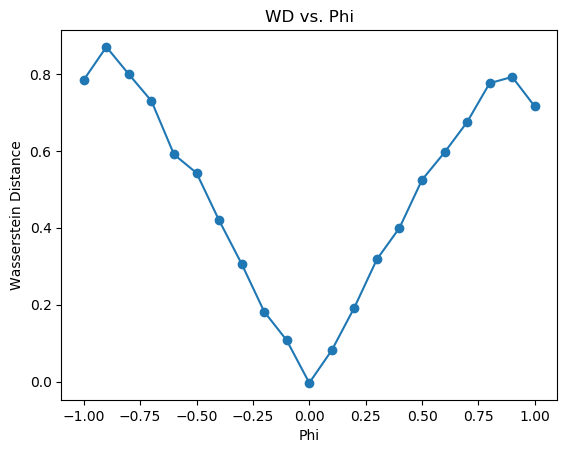
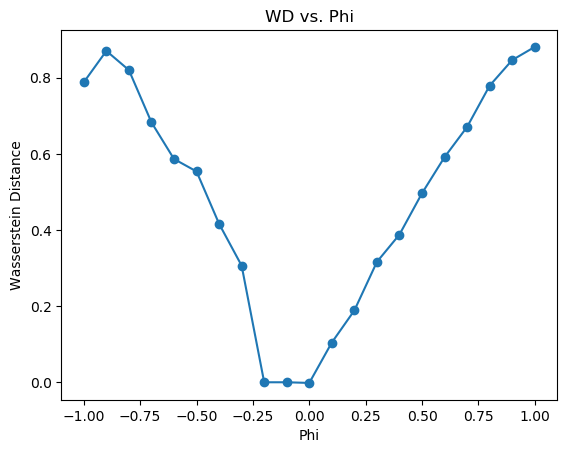
Fixed WD estimate

diff --git a/discriminator.py b/discriminator.py
@@ -69,8 +69,8 @@ class Discriminator(nn.Module):
     def loss_JSD(self, x_pred, y_pred):
         return -(torch.log(torch.tensor([[2.]])) + 1/2*torch.mean(torch.log(x_pred)) + 1/2*torch.mean(torch.log((1- y_pred))))
 
-    def loss_WD(self, x_pred, y_pred, norm):
-        return -(torch.mean(x_pred) - torch.mean(y_pred) - (self.lamda * torch.mean(((norm -1)**2))))
+    def loss_WD(self, x_pred, y_pred, gradient_penalty):
+        return -(torch.mean(x_pred) - torch.mean(y_pred) - gradient_penalty)
 
     def Get_z_value(self, x, y, size):
         a = torch.empty(size,1).uniform_(0,1)
@@ -84,4 +84,6 @@ class Discriminator(nn.Module):
         # Mean/Expectation of gradients
         gradients = gradients.view(gradients.size(0),  -1)
         gradient_norm = gradients.norm(2, dim=1)
-        return gradient_norm
+        gradient_penalty = (self.lamda * torch.mean(((gradient_norm -1)**2)))
+        gradient_penality = Variable(gradient_penalty.data, requires_grad = True)
+        return gradient_penalty
